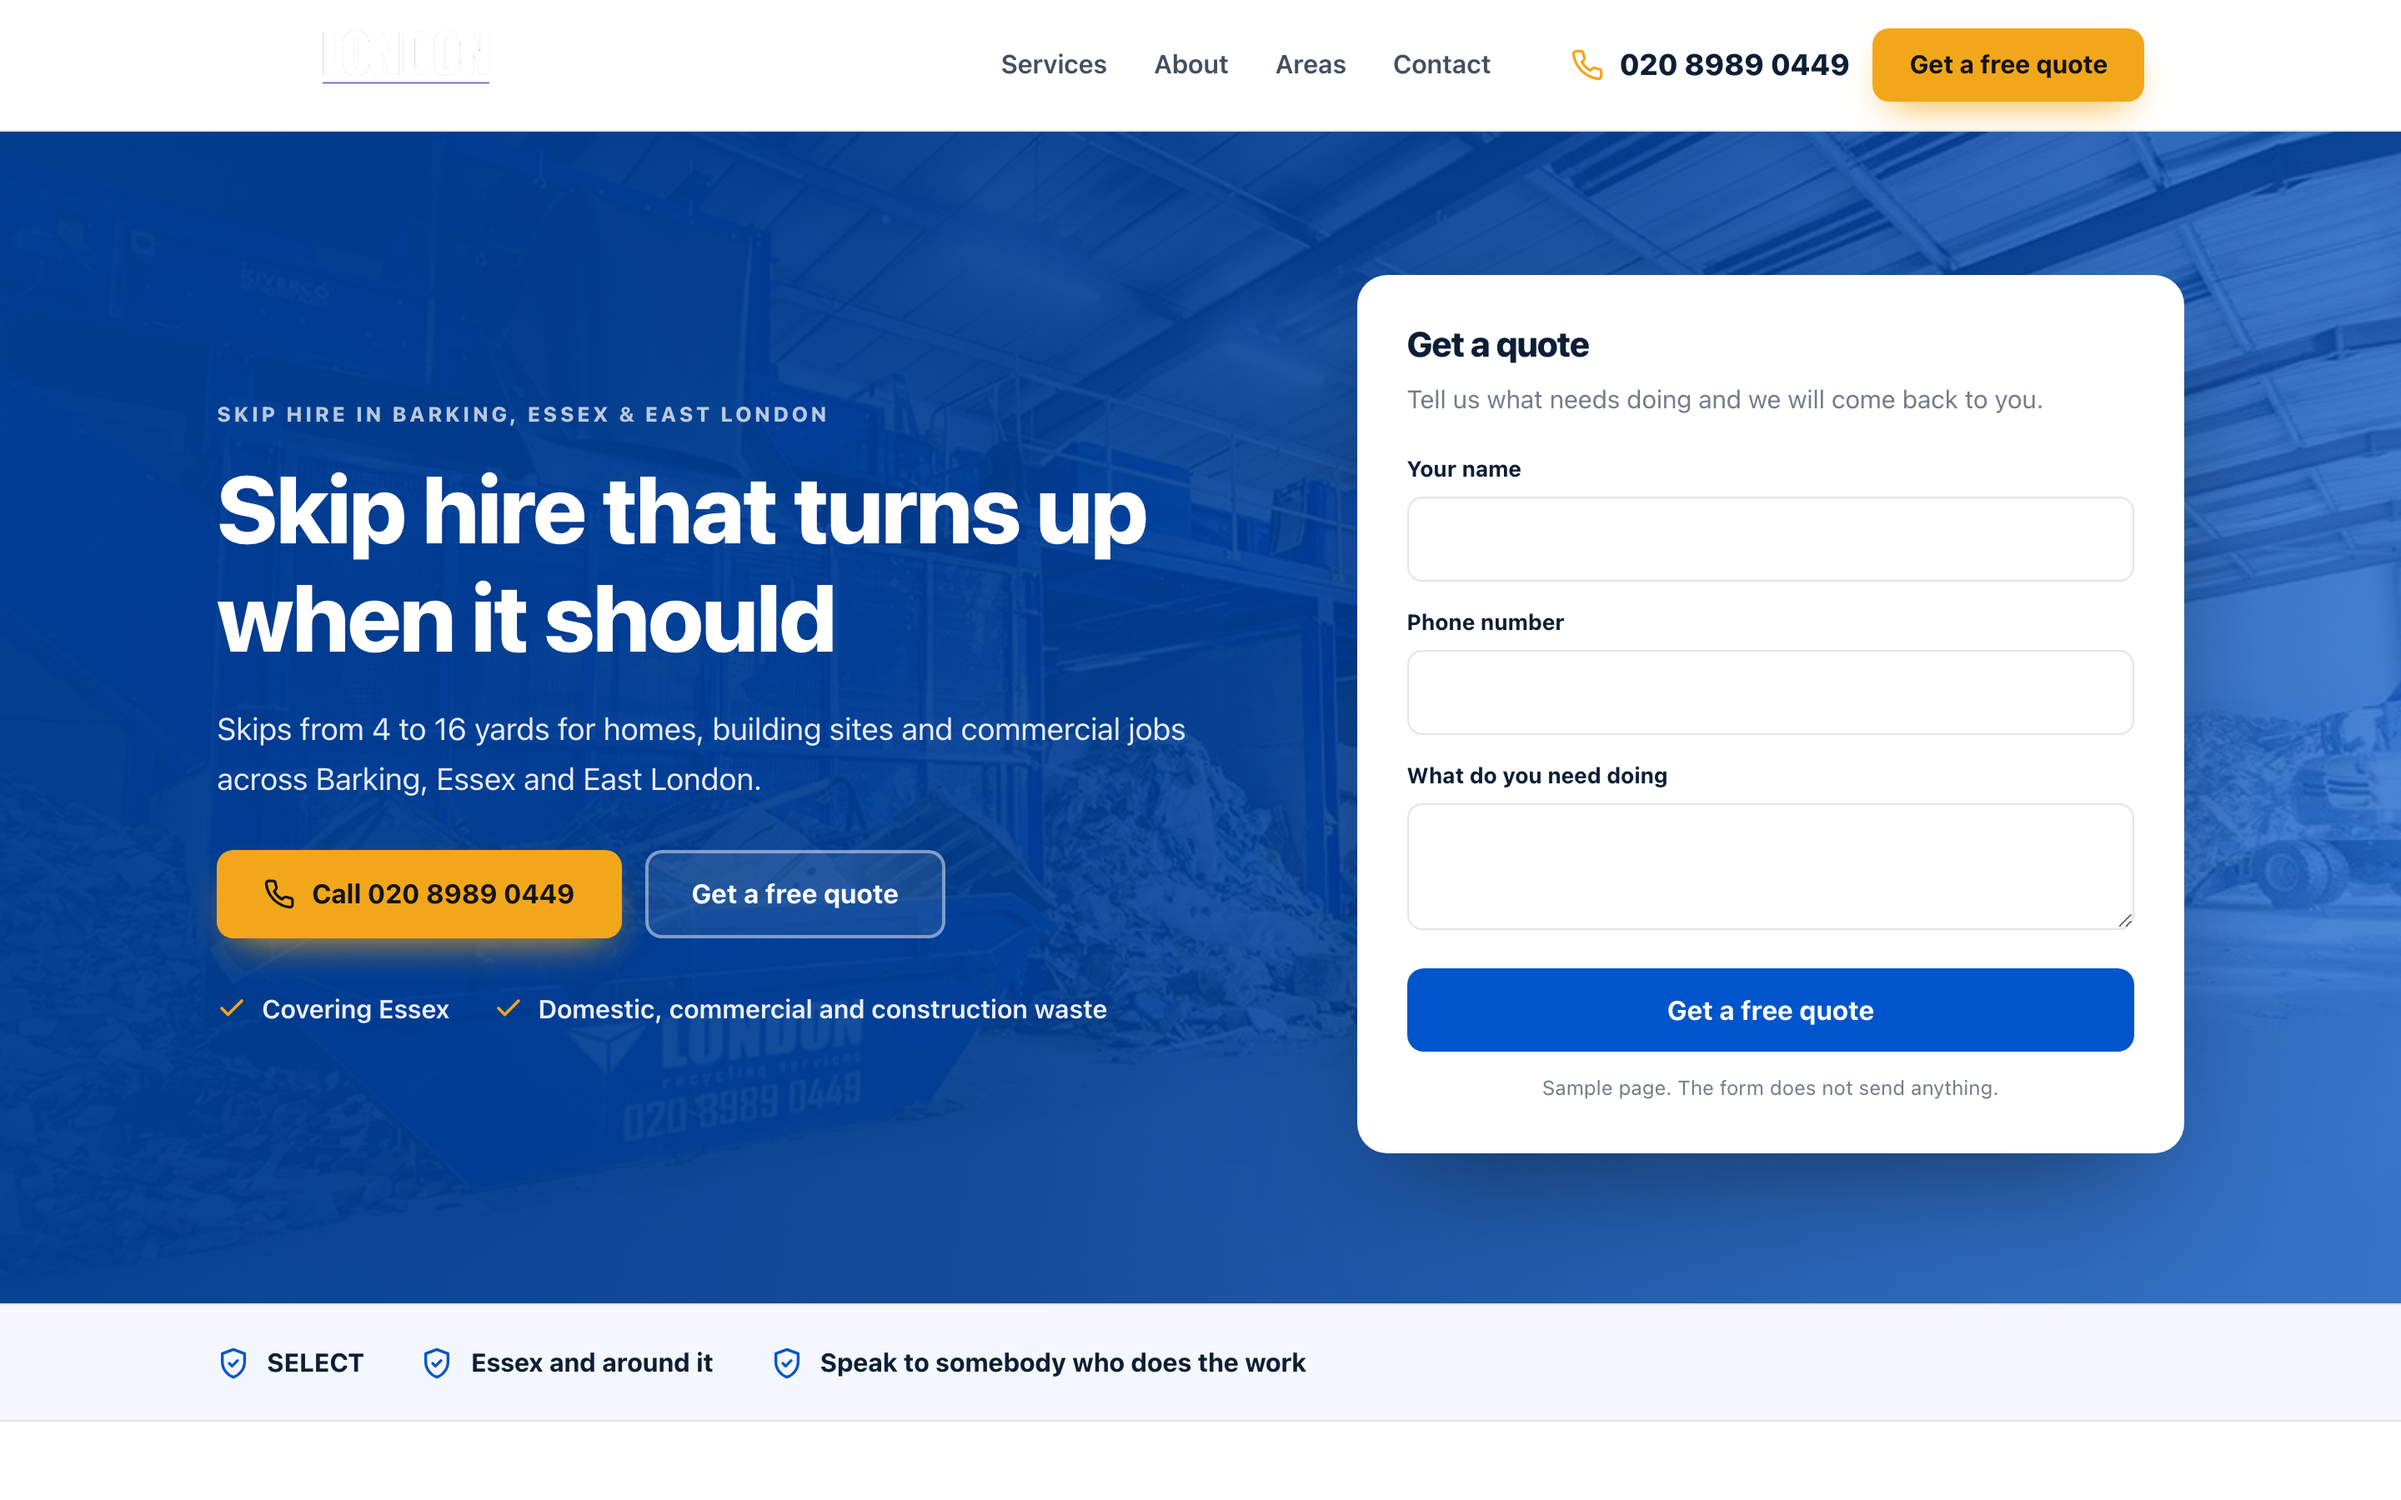
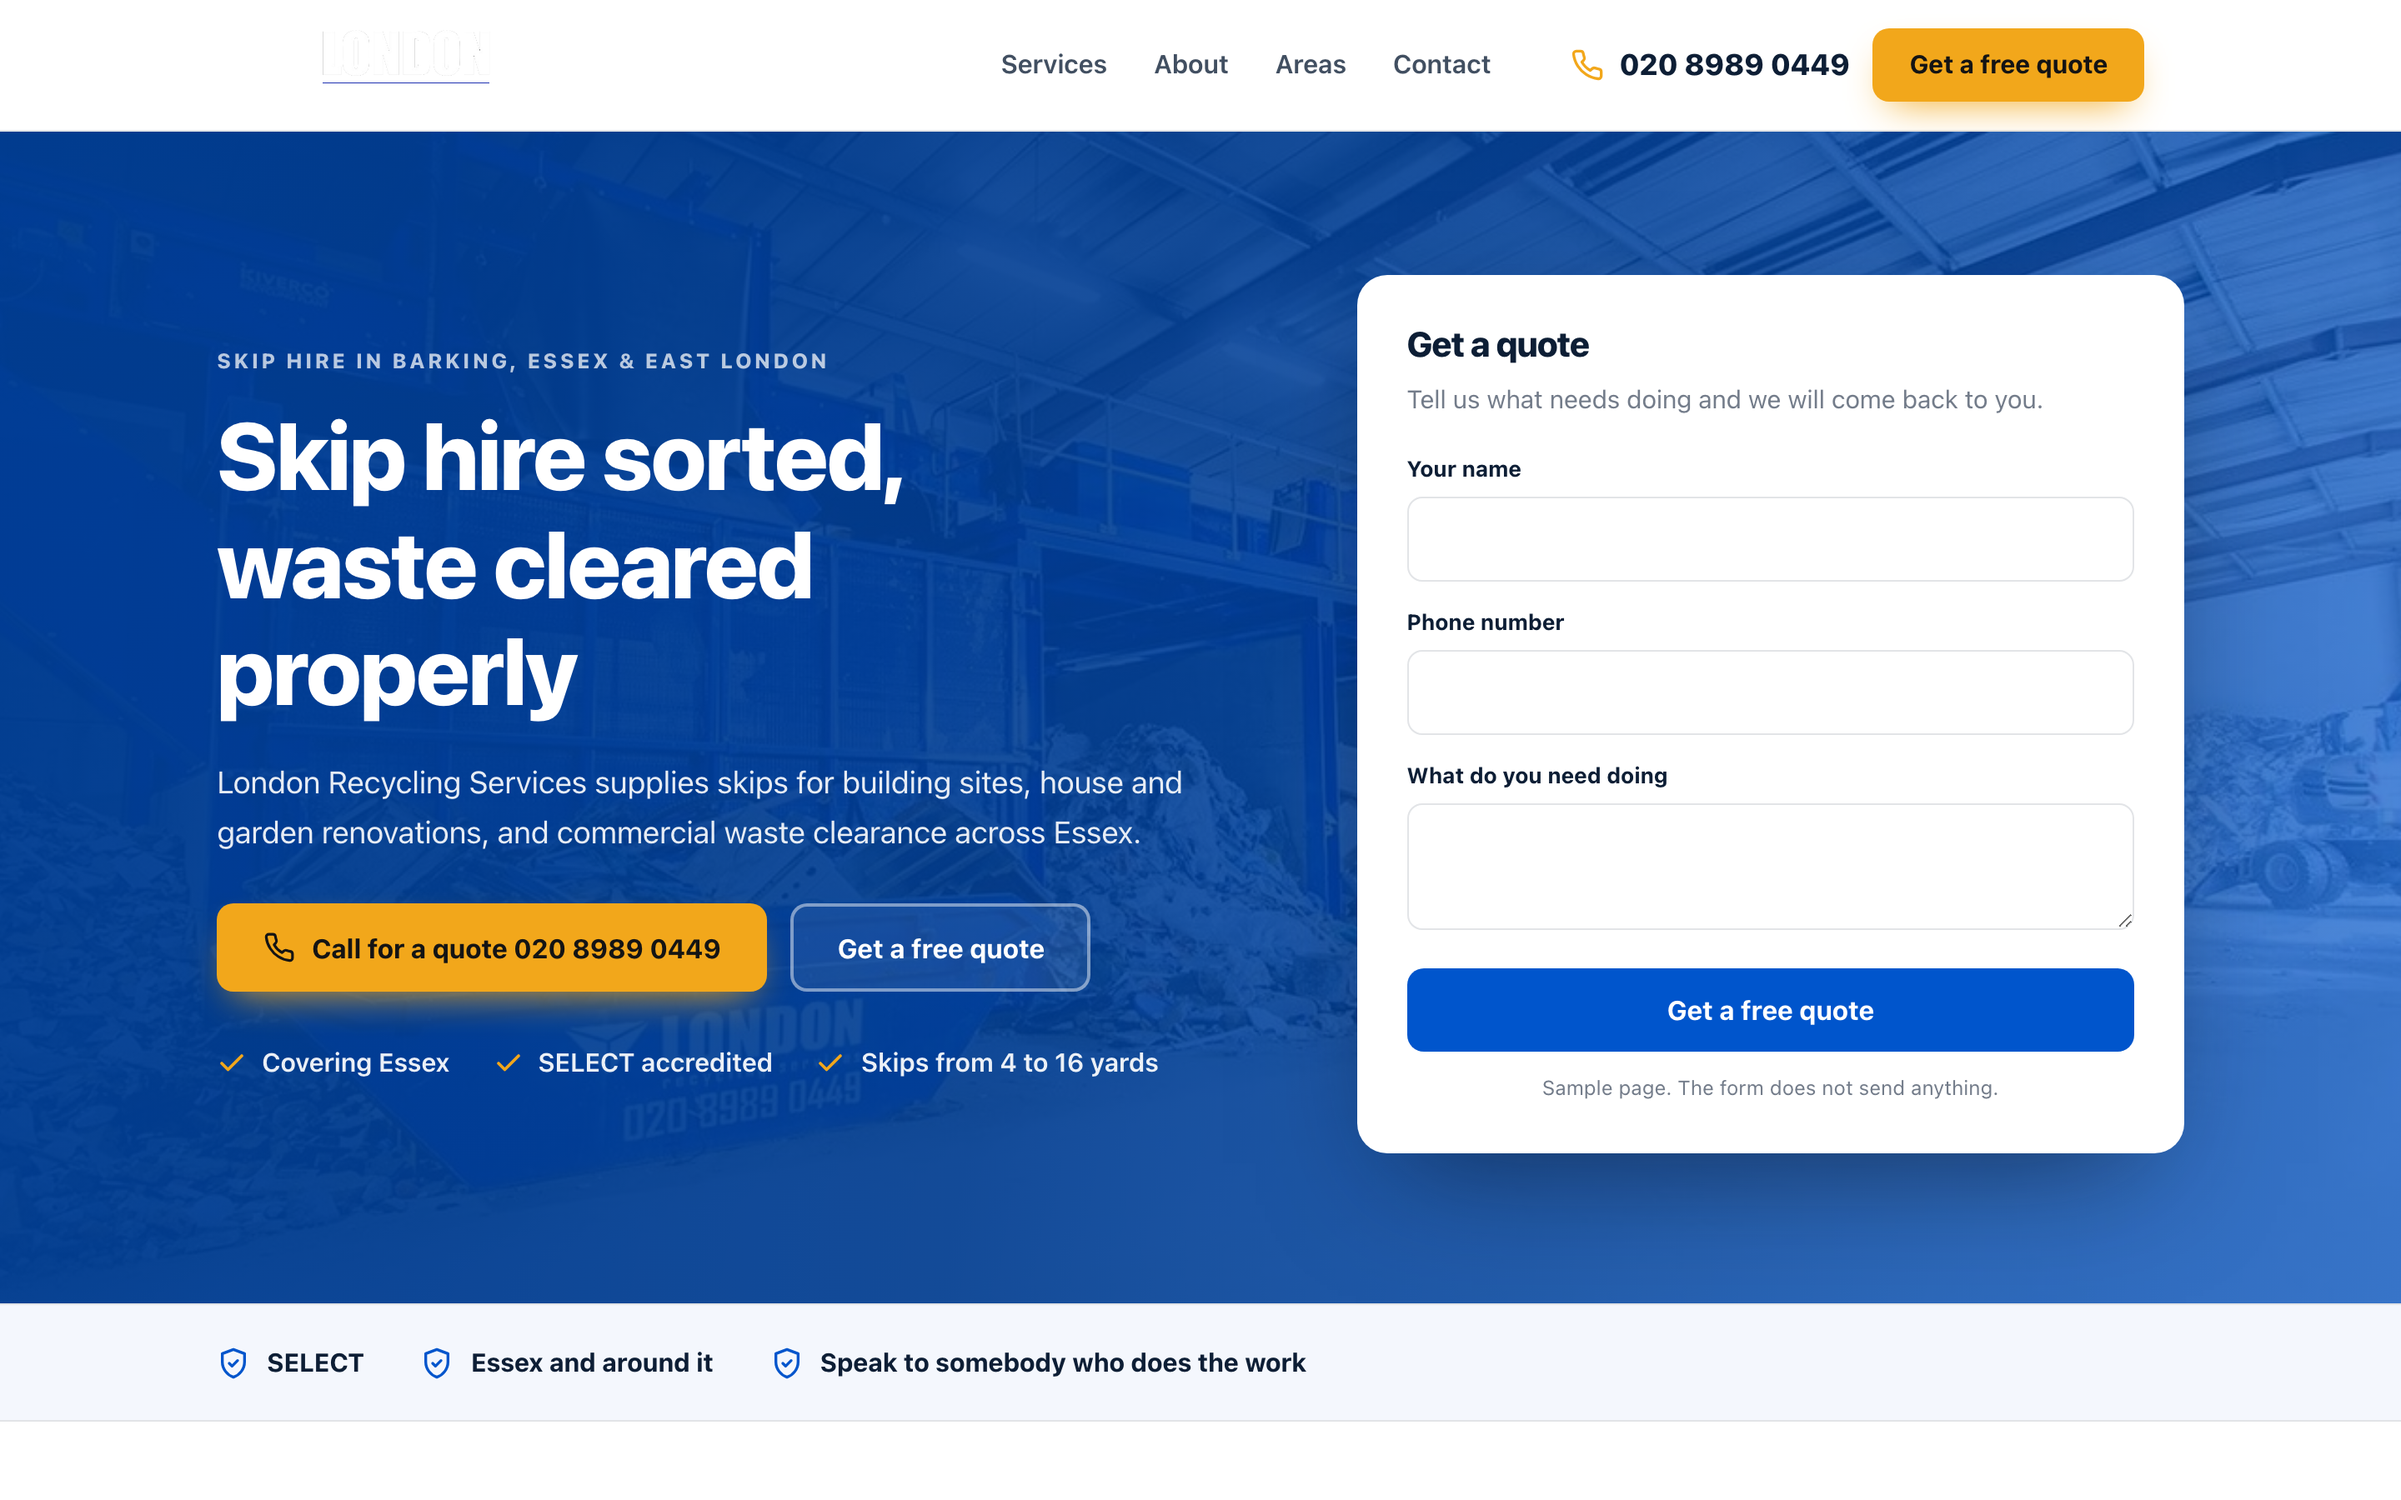
Sample homepage for London Recycling

Changed region(s): [[0.0625, 0.2178, 0.5, 0.7156]]

diff --git a/docs/447b226a0f/index.html b/docs/447b226a0f/index.html
@@ -6,11 +6,11 @@
 <meta name="robots" content="noindex,nofollow">
 <meta name="aso-build" content="">
 <title>London Recycling sample homepage</title>
-<meta name="description" content="Skips from 4 to 16 yards for homes, building sites and commercial jobs across Barking, Essex and East London.">
+<meta name="description" content="London Recycling Services supplies skips for building sites, house and garden renovations, and commercial waste clearance across Essex.">
 <link rel="canonical" href="https://markygff.github.io/aso-mockups/447b226a0f/">
 <meta property="og:type" content="website">
 <meta property="og:title" content="London Recycling sample homepage">
-<meta property="og:description" content="Skips from 4 to 16 yards for homes, building sites and commercial jobs across Barking, Essex and East London.">
+<meta property="og:description" content="London Recycling Services supplies skips for building sites, house and garden renovations, and commercial waste clearance across Essex.">
 <meta property="og:url" content="https://markygff.github.io/aso-mockups/447b226a0f/">
 <meta property="og:image" content="img/p03.jpg"><style>
 :root{
@@ -137,14 +137,14 @@ p{margin:0}
   <div class="wrap hero-in">
     <div>
       <p class="eyebrow">Skip hire in Barking, Essex &amp; East London</p>
-      <h1>Skip hire that turns up when it should</h1>
-      <p class="hero-sub">Skips from 4 to 16 yards for homes, building sites and commercial jobs across Barking, Essex and East London.</p>
+      <h1>Skip hire sorted, waste cleared properly</h1>
+      <p class="hero-sub">London Recycling Services supplies skips for building sites, house and garden renovations, and commercial waste clearance across Essex.</p>
       <div class="hero-actions">
-        <span class="btn btn-accent"><svg viewBox="0 0 24 24" fill="none" stroke="currentColor" stroke-width="2" stroke-linecap="round" stroke-linejoin="round" aria-hidden="true"><path d="M22 16.9v3a2 2 0 0 1-2.2 2 19.8 19.8 0 0 1-8.6-3.1 19.5 19.5 0 0 1-6-6 19.8 19.8 0 0 1-3.1-8.7A2 2 0 0 1 4.1 2h3a2 2 0 0 1 2 1.7c.1 1 .4 1.9.7 2.8a2 2 0 0 1-.5 2.1L8.1 9.9a16 16 0 0 0 6 6l1.3-1.2a2 2 0 0 1 2.1-.5c.9.3 1.8.6 2.8.7a2 2 0 0 1 1.7 2z"/></svg>Call 020 8989 0449</span>
+        <span class="btn btn-accent"><svg viewBox="0 0 24 24" fill="none" stroke="currentColor" stroke-width="2" stroke-linecap="round" stroke-linejoin="round" aria-hidden="true"><path d="M22 16.9v3a2 2 0 0 1-2.2 2 19.8 19.8 0 0 1-8.6-3.1 19.5 19.5 0 0 1-6-6 19.8 19.8 0 0 1-3.1-8.7A2 2 0 0 1 4.1 2h3a2 2 0 0 1 2 1.7c.1 1 .4 1.9.7 2.8a2 2 0 0 1-.5 2.1L8.1 9.9a16 16 0 0 0 6 6l1.3-1.2a2 2 0 0 1 2.1-.5c.9.3 1.8.6 2.8.7a2 2 0 0 1 1.7 2z"/></svg>Call for a quote 020 8989 0449</span>
         <span class="btn btn-ghost">Get a free quote</span>
       </div>
       <ul class="hero-bullets">
-<li><svg viewBox="0 0 24 24" fill="none" stroke="currentColor" stroke-width="2.4" stroke-linecap="round" stroke-linejoin="round" aria-hidden="true"><path d="M20 6 9 17l-5-5"/></svg><span>Covering Essex</span></li><li><svg viewBox="0 0 24 24" fill="none" stroke="currentColor" stroke-width="2.4" stroke-linecap="round" stroke-linejoin="round" aria-hidden="true"><path d="M20 6 9 17l-5-5"/></svg><span>Domestic, commercial and construction waste</span></li>      </ul>
+<li><svg viewBox="0 0 24 24" fill="none" stroke="currentColor" stroke-width="2.4" stroke-linecap="round" stroke-linejoin="round" aria-hidden="true"><path d="M20 6 9 17l-5-5"/></svg><span>Covering Essex</span></li><li><svg viewBox="0 0 24 24" fill="none" stroke="currentColor" stroke-width="2.4" stroke-linecap="round" stroke-linejoin="round" aria-hidden="true"><path d="M20 6 9 17l-5-5"/></svg><span>SELECT accredited</span></li><li><svg viewBox="0 0 24 24" fill="none" stroke="currentColor" stroke-width="2.4" stroke-linecap="round" stroke-linejoin="round" aria-hidden="true"><path d="M20 6 9 17l-5-5"/></svg><span>Skips from 4 to 16 yards</span></li>      </ul>
     </div>
     <div class="quote-card">
       <h3>Get a quote</h3>
@@ -171,28 +171,28 @@ p{margin:0}
     <div class="services-head">
       <p class="eyebrow">What we do</p>
       <h2>London Recycling, Essex</h2>
-      <p>Skips from 4 to 16 yards for homes, building sites and commercial jobs across Barking, Essex and East London.</p>
+      <p>London Recycling Services supplies skips for building sites, house and garden renovations, and commercial waste clearance across Essex.</p>
     </div>
     <div class="grid">
       <article class="card">
         <div class="icon"><svg viewBox="0 0 24 24" fill="none" stroke="currentColor" stroke-width="2" stroke-linecap="round" stroke-linejoin="round" aria-hidden="true"><path d="M14.7 6.3a4 4 0 0 0 5.3 5.3l-8 8a3 3 0 0 1-4.2-4.2z"/><path d="m14.7 6.3 3-3"/></svg></div>
         <h3>Skip Hire</h3>
-        <p>4 to 16 yard skips, delivered and collected when you need them.</p>
+        <p>Skips from 4 to 16 yards for homes, sites and businesses.</p>
       </article>
       <article class="card">
         <div class="icon"><svg viewBox="0 0 24 24" fill="none" stroke="currentColor" stroke-width="2" stroke-linecap="round" stroke-linejoin="round" aria-hidden="true"><path d="M13 2 4 14h7l-1 8 9-12h-7z"/></svg></div>
         <h3>Builders Skips</h3>
-        <p>Durable skips for building sites and renovation jobs.</p>
+        <p>Durable skips for building sites and construction waste.</p>
       </article>
       <article class="card">
         <div class="icon"><svg viewBox="0 0 24 24" fill="none" stroke="currentColor" stroke-width="2" stroke-linecap="round" stroke-linejoin="round" aria-hidden="true"><path d="M3 10.5 12 3l9 7.5"/><path d="M5 9.5V21h14V9.5"/><path d="M10 21v-6h4v6"/></svg></div>
         <h3>Waste Clearance</h3>
-        <p>Clearance for homes, businesses and construction sites.</p>
+        <p>Waste clearance for domestic, commercial and construction jobs.</p>
       </article>
       <article class="card">
         <div class="icon"><svg viewBox="0 0 24 24" fill="none" stroke="currentColor" stroke-width="2" stroke-linecap="round" stroke-linejoin="round" aria-hidden="true"><path d="M4 20 15 9"/><path d="m14 4 6 6-3 3-6-6z"/><path d="m3 15 6 6"/></svg></div>
         <h3>Commercial &amp; Construction Waste Clearance</h3>
-        <p>Waste clearance for commercial and construction work across the area.</p>
+        <p>Waste clearance for demolition works and house or garden renovations.</p>
       </article>
     </div>
   </div>
